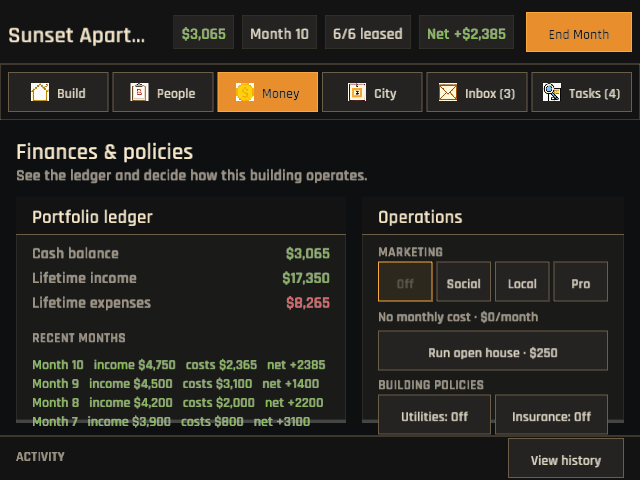
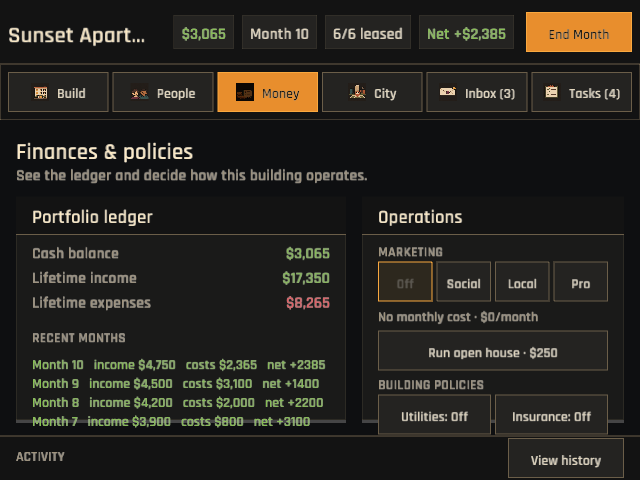
Four small ledgers now keep watch above every floor (management status atlas)
Add a generated 2x2 status atlas for cash, month, occupancy, and monthly net, giving the previously iconless net chip its own balanced-ledger mark. Render the crop-aware symbols in the persistent desktop status cluster while preserving the compact branch's text-only economy at 640x480.

Keep the exact monetary, calendar, lease, and net values authoritative and maintain the existing responsive width calculation so the building name never collides with the cluster.

Verified with 137 passing tests (1 ignored), desktop gameplay and finance captures plus 640x480 compact captures, formatting, JSON and Rust line-count checks, and publish.ps1 for Windows, WebGL, and preview deployment.

diff --git a/src/ui/header.rs b/src/ui/header.rs
@@ -9,19 +9,29 @@ use macroquad_toolkit::ui::{
 
 /// Draw a stat chip (optional icon + label) at `x`, vertically centered in the
 /// header. Returns the chip width so callers can flow chips without overlap.
+#[derive(Clone, Copy)]
+enum StatusIcon {
+    Cash,
+    Month,
+    Occupancy,
+    Net,
+}
+
 fn stat_chip(
     x: f32,
-    icon: Option<&Texture2D>,
+    icon: StatusIcon,
     label: &str,
     text_color: Color,
     header_h: f32,
+    assets: &AssetManager,
 ) -> f32 {
     let chip_h = 34.0;
     let chip_y = (header_h - chip_h) / 2.0;
     let compact = screen_width() < 1000.0;
     let icon_size = if compact { 0.0 } else { 20.0 };
     let text_w = measure_ui_text(label, None, scale::BODY as u16, 1.0).width;
-    let icon_w = if icon.is_some() && !compact {
+    let has_icon = assets.get_texture("status_icons").is_some();
+    let icon_w = if has_icon && !compact {
         icon_size + space::XS
     } else {
         0.0
@@ -33,17 +43,18 @@ fn stat_chip(
     draw_surface(Rect::new(x, chip_y, w, chip_h), &style);
 
     let mut cx = x + pad;
-    if let Some(tex) = icon.filter(|_| !compact) {
-        draw_texture_ex(
-            tex,
-            cx,
-            chip_y + (chip_h - icon_size) / 2.0,
-            WHITE,
-            DrawTextureParams {
-                dest_size: Some(Vec2::new(icon_size, icon_size)),
-                ..Default::default()
-            },
-        );
+    if !compact
+        && draw_status_icon(
+            icon,
+            Rect::new(
+                cx,
+                chip_y + (chip_h - icon_size) / 2.0,
+                icon_size,
+                icon_size,
+            ),
+            assets,
+        )
+    {
         cx += icon_size + space::XS;
     }
     draw_ui_text(
@@ -54,6 +65,39 @@ fn stat_chip(
         text_color,
     );
     w
+}
+
+fn draw_status_icon(icon: StatusIcon, rect: Rect, assets: &AssetManager) -> bool {
+    let Some(texture) = assets.get_texture("status_icons") else {
+        return false;
+    };
+    let (column, row) = match icon {
+        StatusIcon::Cash => (0.0, 0.0),
+        StatusIcon::Month => (1.0, 0.0),
+        StatusIcon::Occupancy => (0.0, 1.0),
+        StatusIcon::Net => (1.0, 1.0),
+    };
+    let tile_w = texture.width() * 0.5;
+    let tile_h = texture.height() * 0.5;
+    let inset_x = tile_w * 0.08;
+    let inset_y = tile_h * 0.08;
+    draw_texture_ex(
+        texture,
+        rect.x,
+        rect.y,
+        WHITE,
+        DrawTextureParams {
+            dest_size: Some(vec2(rect.w, rect.h)),
+            source: Some(Rect::new(
+                column * tile_w + inset_x,
+                row * tile_h + inset_y,
+                tile_w - inset_x * 2.0,
+                tile_h - inset_y * 2.0,
+            )),
+            ..Default::default()
+        },
+    );
+    true
 }
 
 pub fn draw_header(
@@ -118,21 +162,17 @@ pub fn draw_header(
 
     // Measure chip widths (mirror stat_chip's math) to place them.
     let chip_gap = space::SM;
-    let chips: [(Option<&Texture2D>, &str, Color); 4] = [
-        (assets.get_texture("icon_money"), &money_label, money_color),
-        (
-            assets.get_texture("icon_calendar"),
-            &month_label,
-            color::TEXT(),
-        ),
-        (assets.get_texture("icon_key"), &occ_label, color::TEXT()),
-        (None, &net_label, net_color),
+    let chips: [(StatusIcon, &str, Color); 4] = [
+        (StatusIcon::Cash, &money_label, money_color),
+        (StatusIcon::Month, &month_label, color::TEXT()),
+        (StatusIcon::Occupancy, &occ_label, color::TEXT()),
+        (StatusIcon::Net, &net_label, net_color),
     ];
     let widths: Vec<f32> = chips
         .iter()
-        .map(|(icon, label, _)| {
+        .map(|(_, label, _)| {
             let text_w = measure_ui_text(label, None, scale::BODY as u16, 1.0).width;
-            let icon_w = if icon.is_some() && !compact {
+            let icon_w = if assets.get_texture("status_icons").is_some() && !compact {
                 20.0 + space::XS
             } else {
                 0.0
@@ -146,7 +186,7 @@ pub fn draw_header(
     let mut cx = (cluster_right - cluster_w).max(0.0);
     let cluster_left = cx;
     for (i, (icon, label, text_color)) in chips.iter().enumerate() {
-        stat_chip(cx, *icon, label, *text_color, h);
+        stat_chip(cx, *icon, label, *text_color, h, assets);
         cx += widths[i] + chip_gap;
     }
 

diff --git a/src/assets.rs b/src/assets.rs
@@ -68,6 +68,7 @@ impl AssetManager {
             // UI Icons
             "workspace_icons",
             "upgrade_icons",
+            "status_icons",
             "icon_money",
             "icon_repair",
             "icon_upgrade",
@@ -134,6 +135,7 @@ impl AssetManager {
                             | "event_atlas"
                             | "workspace_icons"
                             | "upgrade_icons"
+                            | "status_icons"
                     ) {
                     FilterMode::Linear
                 } else {
